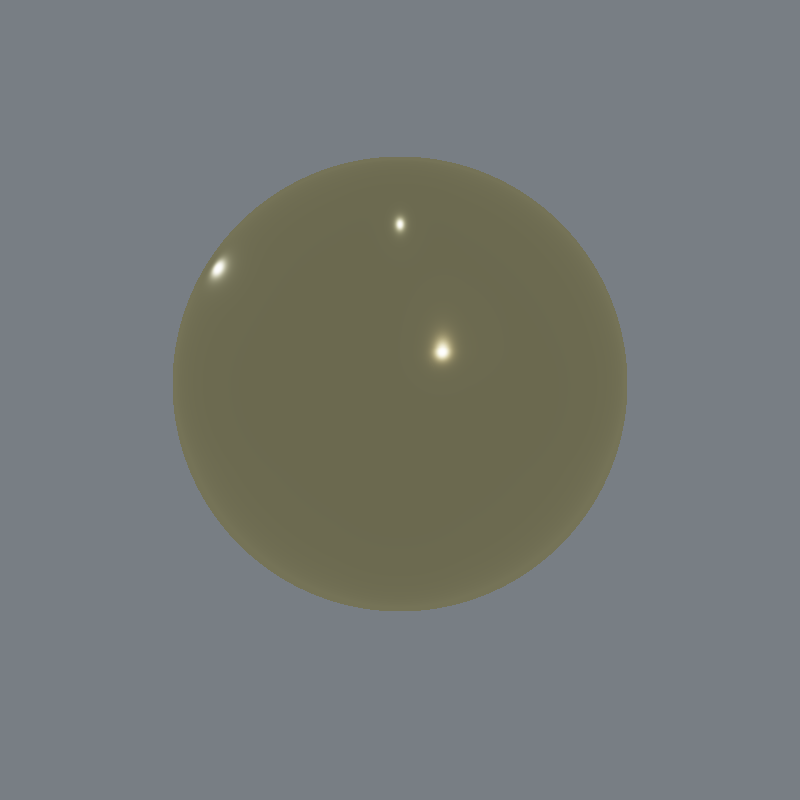
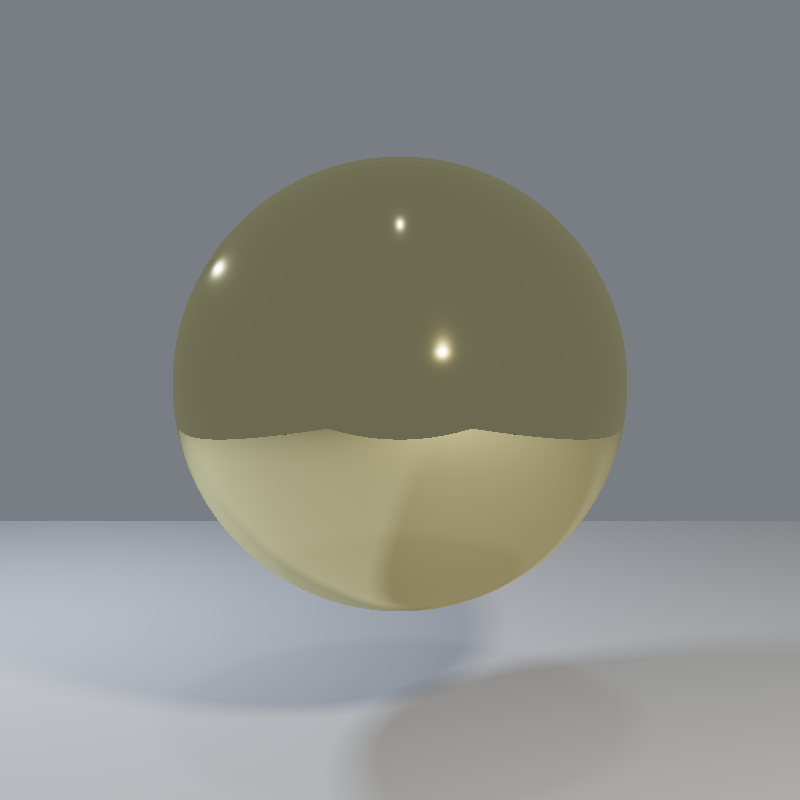
Bump material hook

diff --git a/crates/forgedthoughts/src/renderer.rs b/crates/forgedthoughts/src/renderer.rs
@@ -985,25 +985,7 @@ fn render_depth_image(
                         let t = (1.0 - (hit.t / options.max_dist)).clamp(0.0, 1.0);
                         let material =
                             resolve_material_at_hit(setup, hit, dir.mul(-1.0).normalize());
-                        let local_position = to_local(
-                            hit.position,
-                            setup
-                                .object_transforms
-                                .get(hit.object_id as usize)
-                                .copied()
-                                .unwrap_or_else(PrimitiveTransform::identity),
-                        );
-                        let bsdf_ctx = BsdfContextBase {
-                            hit,
-                            local_position,
-                            normal: if hit.front_face {
-                                hit.normal.normalize()
-                            } else {
-                                hit.normal.mul(-1.0).normalize()
-                            },
-                            wo: dir.mul(-1.0).normalize(),
-                            current_ior: 1.0,
-                        };
+                        let bsdf_ctx = build_bsdf_context(setup, hit, dir.mul(-1.0), 1.0);
                         let lit =
                             shade_color(accel, setup, options, &setup.lights, material, bsdf_ctx);
                         spectrum_to_rgb8(lit.scale(t))
@@ -1320,6 +1302,44 @@ struct BsdfContextBase {
     normal: Vec3,
     wo: Vec3,
     current_ior: f32,
+}
+
+fn build_bsdf_context(
+    setup: &RenderSetup,
+    hit: RayHit,
+    view_dir: Vec3,
+    current_ior: f32,
+) -> BsdfContextBase {
+    let transform = setup
+        .object_transforms
+        .get(hit.object_id as usize)
+        .copied()
+        .unwrap_or_else(PrimitiveTransform::identity);
+    let local_position = to_local(hit.position, transform);
+    let geometric_normal = if hit.front_face {
+        hit.normal.normalize()
+    } else {
+        hit.normal.mul(-1.0).normalize()
+    };
+    let material = material_for_id(&setup.materials, hit.material_id);
+    let normal = resolve_dynamic_normal(
+        &setup.state,
+        &setup.material_def_names,
+        material,
+        hit,
+        local_position,
+        view_dir,
+        geometric_normal,
+    )
+    .unwrap_or(geometric_normal);
+
+    BsdfContextBase {
+        hit,
+        local_position,
+        normal,
+        wo: view_dir.normalize(),
+        current_ior,
+    }
 }
 
 fn estimate_direct_mis<A: Accelerator + Sync>(
@@ -2767,6 +2787,33 @@ fn resolve_dynamic_number(
     Some(v)
 }
 
+fn resolve_dynamic_normal(
+    state: &EvalState,
+    material_def_names: &[String],
+    material: MaterialKindRt,
+    hit: RayHit,
+    local_position: Vec3,
+    view_dir: Vec3,
+    geometric_normal: Vec3,
+) -> Option<Vec3> {
+    let dynamic_material_id = match material {
+        MaterialKindRt::Lambert(params)
+        | MaterialKindRt::Metal(params)
+        | MaterialKindRt::Dielectric(params) => params.dynamic_material_id,
+    }?;
+    let name = material_def_names.get(dynamic_material_id as usize)?;
+    let ctx = make_shading_context_with_normal(hit, local_position, view_dir, geometric_normal);
+    let value = eval_material_function(state, name, "normal", ctx).ok()?;
+    let mut normal = vec3_from_value(&value)?.normalize();
+    if normal.length() <= 1.0e-6 {
+        return None;
+    }
+    if normal.dot(geometric_normal) < 0.0 {
+        normal = normal.mul(-1.0);
+    }
+    Some(normal)
+}
+
 fn resolve_dynamic_object(
     state: &EvalState,
     material_def_names: &[String],
@@ -2807,13 +2854,27 @@ fn resolve_pattern_color(params: MaterialParams, local_position: Vec3) -> Spectr
 }
 
 fn make_shading_context(hit: RayHit, local_position: Vec3, view_dir: Vec3) -> Value {
+    let normal = if hit.front_face {
+        hit.normal.normalize()
+    } else {
+        hit.normal.mul(-1.0).normalize()
+    };
+    make_shading_context_with_normal(hit, local_position, view_dir, normal)
+}
+
+fn make_shading_context_with_normal(
+    hit: RayHit,
+    local_position: Vec3,
+    view_dir: Vec3,
+    normal: Vec3,
+) -> Value {
     let mut fields = std::collections::HashMap::new();
     fields.insert("position".to_string(), vec3_value_value(hit.position));
     fields.insert(
         "local_position".to_string(),
         vec3_value_value(local_position),
     );
-    fields.insert("normal".to_string(), vec3_value_value(hit.normal));
+    fields.insert("normal".to_string(), vec3_value_value(normal));
     fields.insert("view_dir".to_string(), vec3_value_value(view_dir));
     fields.insert(
         "front_face".to_string(),
@@ -3872,6 +3933,48 @@ mod tests {
         assert!((sample.f.g - 0.4).abs() < 1.0e-6);
         assert!((sample.pdf - 0.35).abs() < 1.0e-6);
         assert!((sample.next_ior - 1.1).abs() < 1.0e-6);
+    }
+
+    #[test]
+    fn resolves_ft_material_dynamic_normal_hook() {
+        let source = r#"
+            material Bumped {
+              model: Lambert;
+              fn normal(ctx) {
+                return normalize(vec3(ctx.normal.x + 0.35, ctx.normal.y, ctx.normal.z));
+              }
+            };
+
+            let scene = Sphere {
+              material: Bumped {}
+            };
+        "#;
+
+        let program = parse_program(source).expect("program should parse");
+        let state = eval_program(&program).expect("program should evaluate");
+        let scene = super::compile_scene(
+            &state,
+            state
+                .bindings
+                .get("scene")
+                .map(|b| &b.value)
+                .expect("scene binding"),
+            super::default_material(),
+        )
+        .expect("scene should compile");
+        let setup = super::build_render_setup(&state, &scene, RenderOptions::default());
+        let hit = super::RayHit {
+            t: 1.0,
+            position: super::Vec3::new(0.0, 0.0, 1.0),
+            normal: super::Vec3::new(0.0, 0.0, 1.0),
+            front_face: true,
+            object_id: 1,
+            material_id: 1,
+        };
+
+        let ctx = super::build_bsdf_context(&setup, hit, super::Vec3::new(0.0, 0.0, 1.0), 1.0);
+        assert!(ctx.normal.x > 0.2);
+        assert!(ctx.normal.z > 0.9);
     }
 
     #[test]

diff --git a/crates/forgedthoughts/src/renderer/path.rs b/crates/forgedthoughts/src/renderer/path.rs
@@ -47,26 +47,7 @@ pub(super) fn trace_path(
         let hit_point = hit.position;
         let _ = (hit.object_id, hit.material_id);
         let mat = resolve_material_at_hit(setup, hit, dir.mul(-1.0).normalize());
-        let normal = if hit.front_face {
-            hit.normal.normalize()
-        } else {
-            hit.normal.mul(-1.0).normalize()
-        };
-        let wo = dir.mul(-1.0).normalize();
-        let bsdf_ctx = BsdfContextBase {
-            hit,
-            local_position: to_local(
-                hit.position,
-                setup
-                    .object_transforms
-                    .get(hit.object_id as usize)
-                    .copied()
-                    .unwrap_or_else(PrimitiveTransform::identity),
-            ),
-            normal,
-            wo,
-            current_ior: medium.ior,
-        };
+        let bsdf_ctx = build_bsdf_context(setup, hit, dir.mul(-1.0), medium.ior);
         let emission = mat.emission();
         if emission.r > 0.0 || emission.g > 0.0 || emission.b > 0.0 {
             radiance = radiance + (throughput * emission);
@@ -80,7 +61,7 @@ pub(super) fn trace_path(
             break;
         }
         if sample.apply_cos {
-            let cos_theta = normal.dot(sample.wi).max(0.0);
+            let cos_theta = bsdf_ctx.normal.dot(sample.wi).max(0.0);
             if cos_theta <= 0.0 {
                 break;
             }
@@ -113,7 +94,7 @@ pub(super) fn trace_path(
             medium.ior = sample.next_ior.clamp(1.0, 3.0);
             origin = hit_point.add(dir.mul((options.epsilon * 256.0).max(1.0e-3)));
         } else {
-            origin = hit_point.add(normal.mul((options.epsilon * 10.0).max(1.0e-4)));
+            origin = hit_point.add(bsdf_ctx.normal.mul((options.epsilon * 10.0).max(1.0e-4)));
         }
     }
 

diff --git a/crates/forgedthoughts/src/renderer/ray.rs b/crates/forgedthoughts/src/renderer/ray.rs
@@ -34,20 +34,7 @@ pub(super) fn trace_ray_recursive(
     } else {
         hit.normal.mul(-1.0).normalize()
     };
-    let bsdf_ctx = BsdfContextBase {
-        hit,
-        local_position: to_local(
-            hit.position,
-            setup
-                .object_transforms
-                .get(hit.object_id as usize)
-                .copied()
-                .unwrap_or_else(PrimitiveTransform::identity),
-        ),
-        normal,
-        wo: dir.mul(-1.0).normalize(),
-        current_ior: medium.ior,
-    };
+    let bsdf_ctx = build_bsdf_context(setup, hit, dir.mul(-1.0), medium.ior);
     let (transmission, ior, thin, specular_color, base_color, metallic) = match mat {
         MaterialKindRt::Lambert(m) => (0.0, 1.0, false, Spectrum::rgb(0.0, 0.0, 0.0), m.color, 0.0),
         MaterialKindRt::Metal(m) => (0.0, 1.0, false, m.color, m.color, 1.0),

diff --git a/crates/ftc/src/main.rs b/crates/ftc/src/main.rs
@@ -93,8 +93,7 @@ enum Command {
         accel: Option<CliAccelMode>,
     },
     /// Path trace a scene to PNG
-    #[command(alias = "path")]
-    Trace {
+    Path {
         /// Path to a .ft scene file
         #[arg(short, long)]
         scene: Option<PathBuf>,
@@ -229,7 +228,7 @@ fn main() -> ExitCode {
             height,
             accel,
         } => run_render(scene, output, width, height, accel.map(Into::into), &cfg),
-        Command::Trace {
+        Command::Path {
             scene,
             output,
             width,

diff --git a/docs/docs/materials.md b/docs/docs/materials.md
@@ -49,6 +49,7 @@ Current FT material hooks:
 - `thin_walled`
 - `emission_color`
 - `emission_strength`
+- `normal`
 - `medium`
 - `subsurface`
 - `eval`
@@ -70,5 +71,14 @@ Current reality:
 
 - `eval/pdf/sample` are integrated most cleanly in the path tracer
 - the recursive `ray` renderer still has some built-in material branching
+- `normal(ctx)` perturbs the shading normal only; it does not change SDF intersections or silhouettes
 - `medium` already affects transmission through simple absorption
 - `subsurface` is structured material data but is not yet consumed as real transport
+
+Use `normal(ctx)` for things like:
+
+- brick and mortar relief
+- grooves
+- fine surface breakup
+
+True displacement that changes the actual SDF shape is a later feature.

diff --git a/docs/docs/cli.md b/docs/docs/cli.md
@@ -26,7 +26,7 @@ cargo run -p ftc -- ray --scene examples/glass.ft
 Path trace:
 
 ```bash
-cargo run -p ftc -- trace --scene examples/glass.ft --spp 64 --bounces 8
+cargo run -p ftc -- path --scene examples/glass.ft --spp 64 --bounces 8
 ```
 
 Benchmark acceleration backends:
@@ -39,4 +39,4 @@ Notes:
 
 - Output defaults to the input scene path with `.png`
 - `ray` supports progressive tile updates and debug AOVs
-- `trace` supports adaptive sampling controls and preview overwrites
+- `path` supports adaptive sampling controls and preview overwrites

diff --git a/docs/docs/language.md b/docs/docs/language.md
@@ -32,4 +32,6 @@ Current supported pieces include:
 - built-ins such as `mix`, `clamp`, `step`, `smoothstep`, `dot`, `length`, `normalize`, `sin`, `cos`
 - material definitions with local bindings and functions
 
+Material functions can now also drive shading-normal perturbation with `fn normal(ctx) { ... }`, which is useful for procedural bump-style detail without changing the underlying SDF geometry.
+
 The language is intentionally still small. Semantics are being stabilized before a VM/JIT layer is added.

diff --git a/docs/docs/index.md b/docs/docs/index.md
@@ -17,6 +17,7 @@ Today the project is already usable for:
 
 - authoring `.ft` scene files
 - rendering SDF scenes with `ray`, `trace`, or `render`
+- rendering SDF scenes with `ray`, `path`, or `render`
 - testing material ideas with `Lambert`, `Metal`, and `Dielectric`
 - writing FT material hooks such as `color`, `roughness`, `ior`, `medium`, and custom `eval/pdf/sample`
 
